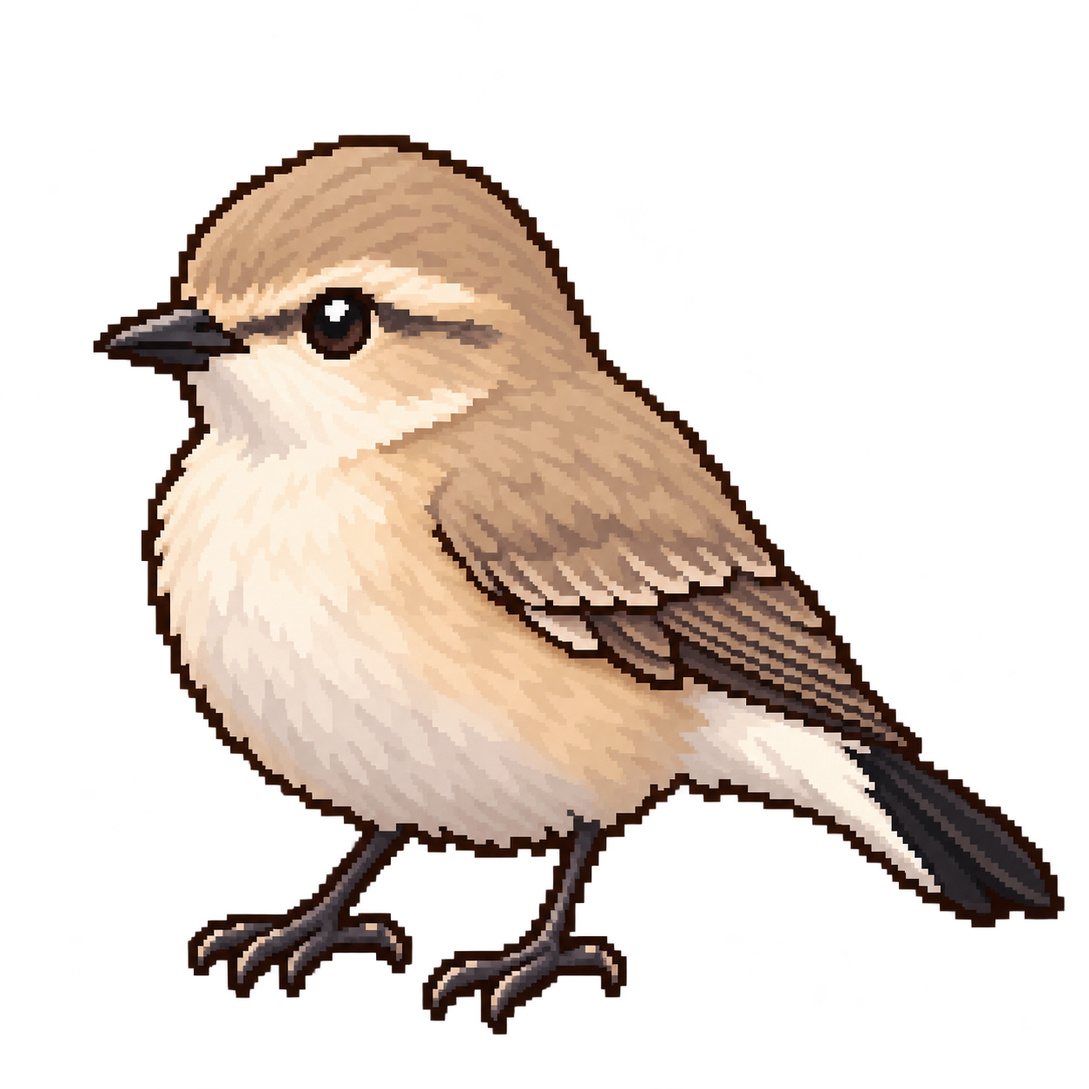
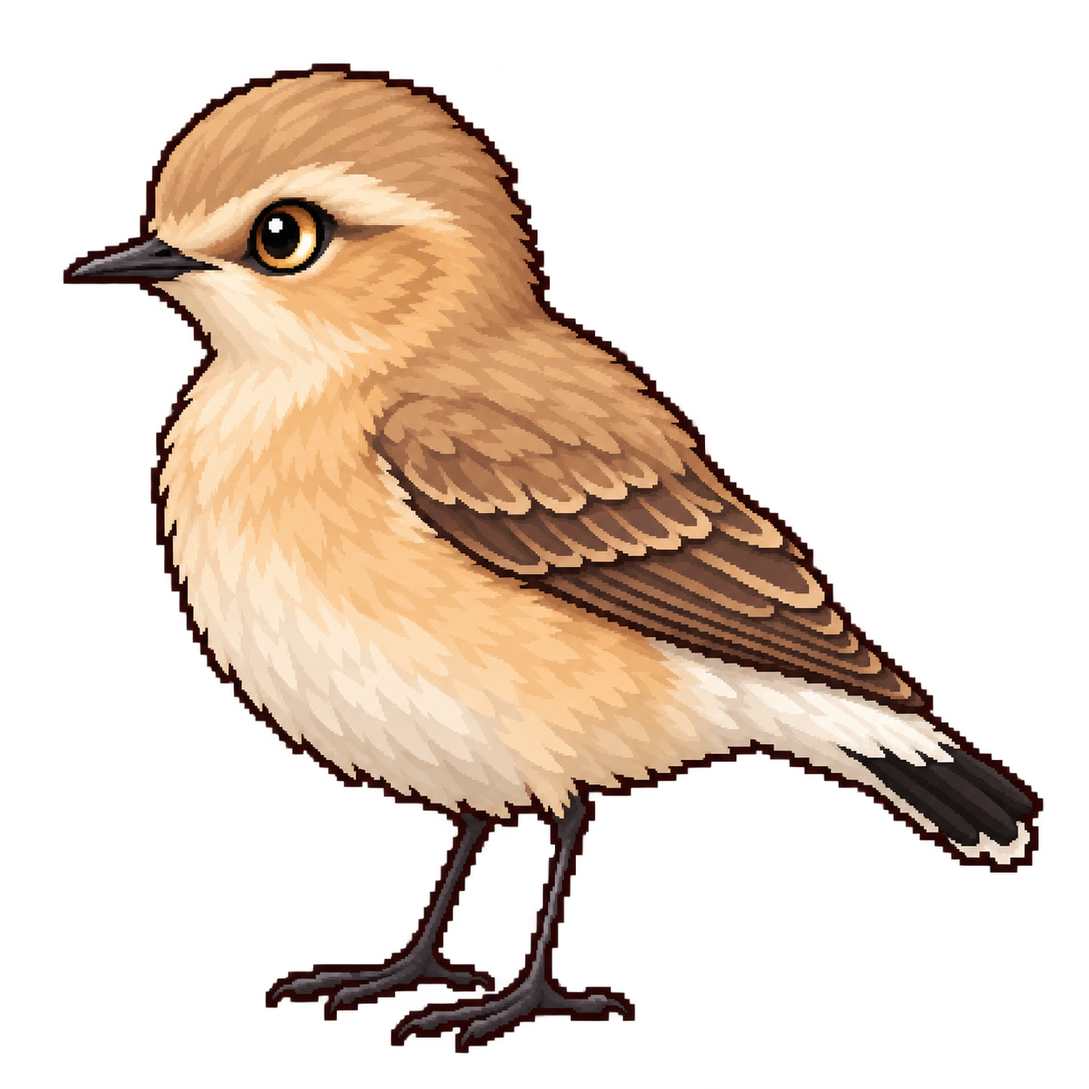
0.8.4.14

diff --git a/dist/game.js b/dist/game.js
@@ -58,7 +58,7 @@ const guests = {
     "red-billed-chough": { id: "red-billed-chough", name: "붉은부리까마귀", englishName: "Red-billed Chough", scientificName: "Pyrrhocorax pyrrhocorax", emoji: "🐦", diet: { primary: ["beetle", "grasshopper"], secondary: ["caterpillar", "lizard"], rare: ["mouse"], never: ["fish", "smallBird"] }, note: "고산 초지와 절벽에서 무척추동물을 찾는 군집성 손님." },
     "himalayan-woodpecker": { id: "himalayan-woodpecker", name: "히말라야오색딱따구리", englishName: "Himalayan Woodpecker", scientificName: "Dendrocopos himalayensis", emoji: "🐦", diet: { primary: ["beetle", "caterpillar"], secondary: ["grasshopper"], rare: [], never: ["frog", "mouse", "fish", "smallBird"] }, note: "고지대 침엽수림에서 딱정벌레와 유충을 찾는 손님." },
     "grey-backed-shrike": { id: "grey-backed-shrike", name: "회색등때까치", englishName: "Grey-backed Shrike", scientificName: "Lanius tephronotus", emoji: "🩶", diet: { primary: ["grasshopper", "beetle", "lizard"], secondary: ["mouse", "caterpillar"], rare: ["smallBird", "frog"], never: ["fish"] }, note: "히말라야와 티베트 고원의 개방지에서 곤충과 소형 척추동물을 사냥하는 손님." },
-    "isabelline-wheatear": { id: "isabelline-wheatear", name: "사막딱새", englishName: "Isabelline Wheatear", scientificName: "Oenanthe isabellina", emoji: "🐦", diet: { primary: ["grasshopper", "beetle"], secondary: ["caterpillar", "lizard"], rare: ["mouse"], never: ["fish", "smallBird"] }, note: "건조 초원과 반사막에서 땅 위 곤충을 쫓는 이동성 손님." },
+    "isabelline-wheatear": { "id": "isabelline-wheatear", "name": "긴다리사막딱새", "englishName": "Isabelline Wheatear", "scientificName": "Oenanthe isabellina", "emoji": "🐦", "diet": { "primary": ["beetle", "grasshopper"], "secondary": ["caterpillar"], "rare": [], "never": ["aquaticInsect", "frog", "lizard", "mouse", "fish", "smallBird", "seed"] }, "note": "중앙아시아의 스텝·반사막에서 번식하고 아프리카와 남아시아에서 겨울을 난다. 모래빛 몸, 긴 검은 다리와 곧게 선 자세가 특징이다. 땅에서 찾는 곤충류를 주문한다." },
     "eurasian-hoopoe": { id: "eurasian-hoopoe", name: "후투티", englishName: "Common Hoopoe", scientificName: "Upupa epops", emoji: "🐦", diet: { primary: ["beetle", "grasshopper"], secondary: ["caterpillar", "lizard"], rare: ["frog"], never: ["fish", "smallBird"] }, note: "땅을 탐색해 큰 곤충과 유충을 먹는 초원·농경지 손님." },
     "european-roller": { id: "european-roller", name: "유럽파랑새", englishName: "European Roller", scientificName: "Coracias garrulus", emoji: "🐦", diet: { primary: ["grasshopper", "beetle", "lizard"], secondary: ["frog", "mouse"], rare: ["smallBird"], never: ["fish"] }, note: "개방지에서 큰 곤충과 소형 척추동물을 노리는 사냥형 손님." },
     "little-owl": { id: "little-owl", name: "금눈쇠올빼미", englishName: "Little Owl", scientificName: "Athene noctua", emoji: "🦉", diet: { primary: ["mouse", "beetle", "grasshopper"], secondary: ["lizard", "smallBird"], rare: ["frog"], never: ["fish"] }, note: "건조 농경지와 초원의 야간 포식자. 설치류와 대형 곤충을 주문한다." },
@@ -103,7 +103,21 @@ const guests = {
     "japanese-accentor": { "id": "japanese-accentor", "name": "쇠바위종다리", "englishName": "Japanese Accentor", "scientificName": "Prunella rubida", "emoji": "🐦", "diet": { "primary": ["beetle", "caterpillar"], "secondary": ["seed"], "rare": [], "never": ["grasshopper", "aquaticInsect", "frog", "lizard", "mouse", "fish", "smallBird"] }, "note": "일본과 인접 동아시아의 산지에 서식한다. 번식기에는 고지대 왜성 소나무·관목, 비번식기에는 낮은 계곡 덤불을 이용한다. 붉은 홍채와 가는 부리가 특징이며 곤충과 씨앗을 주문한다.", "invited": false },
     "japanese-grosbeak": { "id": "japanese-grosbeak", "name": "큰부리밀화부리", "englishName": "Japanese Grosbeak", "scientificName": "Eophona personata", "emoji": "🐦", "diet": { "primary": ["seed"], "secondary": ["beetle", "caterpillar"], "rare": [], "never": ["grasshopper", "aquaticInsect", "frog", "lizard", "mouse", "fish", "smallBird"] }, "note": "동아시아의 산림과 숲 가장자리에서 씨앗과 열매를 먹고 곤충도 이용한다. 굵은 노란 부리, 검은 머리 앞부분, 회갈색 몸과 흰 날개 무늬가 특징이다. 게임에서는 씨앗·견과를 주로 주문한다.", "invited": false },
     "black-grouse": { "id": "black-grouse", "name": "멧닭", "englishName": "Black Grouse", "scientificName": "Lyrurus tetrix", "emoji": "🐦", "diet": { "primary": ["seed"], "secondary": [], "rare": ["beetle", "caterpillar"], "never": ["grasshopper", "aquaticInsect", "frog", "lizard", "mouse", "fish", "smallBird"] }, "note": "유라시아의 숲 경계와 관목·황야에 서식한다. 식물의 잎·눈·씨앗·열매가 주식이고 어린 새는 곤충도 먹는다. 식물성 주문은 씨앗·견과로 단순화했다. 도트는 붉은 눈썹과 리라 모양 꼬리를 가진 수컷이다.", "invited": false },
-    "short-tailed-albatross": { "id": "short-tailed-albatross", "name": "알바트로스", "englishName": "Short-tailed Albatross", "scientificName": "Phoebastria albatrus", "emoji": "🐦", "diet": { "primary": ["fish"], "secondary": [], "rare": [], "never": ["grasshopper", "caterpillar", "beetle", "aquaticInsect", "frog", "lizard", "mouse", "smallBird", "seed"] }, "note": "초대 손님 · 북태평양의 원양성 바닷새로 일본 주변 섬에서 번식한다. 하구 식당을 찾아온 특별 방문객으로 설정했다. 실제로는 오징어·물고기·해양 무척추동물을 먹으며 게임에서는 물고기 꼬치를 주문한다. 성조의 황금빛 머리와 큰 분홍색 부리가 특징이다.", "invited": true }
+    "short-tailed-albatross": { "id": "short-tailed-albatross", "name": "알바트로스", "englishName": "Short-tailed Albatross", "scientificName": "Phoebastria albatrus", "emoji": "🐦", "diet": { "primary": ["fish"], "secondary": [], "rare": [], "never": ["grasshopper", "caterpillar", "beetle", "aquaticInsect", "frog", "lizard", "mouse", "smallBird", "seed"] }, "note": "초대 손님 · 북태평양의 원양성 바닷새로 일본 주변 섬에서 번식한다. 하구 식당을 찾아온 특별 방문객으로 설정했다. 실제로는 오징어·물고기·해양 무척추동물을 먹으며 게임에서는 물고기 꼬치를 주문한다. 성조의 황금빛 머리와 큰 분홍색 부리가 특징이다.", "invited": true },
+    "great-bustard": { "id": "great-bustard", "name": "느시", "englishName": "Great Bustard", "scientificName": "Otis tarda", "emoji": "🐦", "diet": { "primary": ["seed", "grasshopper"], "secondary": ["beetle", "caterpillar"], "rare": [], "never": ["aquaticInsect", "frog", "lizard", "mouse", "fish", "smallBird"] }, "note": "유라시아의 넓은 초원과 농경지에 사는 큰 지상성 조류. 식물의 잎·씨앗과 곤충 등을 먹으며 식물성 먹이는 씨앗·견과로 단순화했다. 도트는 회색 머리와 목, 적갈색 무늬 등, 흰 배를 가진 수컷이다." },
+    "little-heron": { "id": "little-heron", "name": "검은댕기해오라기", "englishName": "Little Heron", "scientificName": "Butorides atricapilla", "emoji": "🐦", "diet": { "primary": ["fish", "aquaticInsect"], "secondary": ["frog"], "rare": [], "never": ["grasshopper", "caterpillar", "beetle", "lizard", "mouse", "smallBird", "seed"] }, "note": "동아시아와 구세계 열대의 하천·연못·습지에서 작은 물고기와 수서무척추동물을 잡는다. 검은 정수리, 회색 목과 배, 녹색 기운의 어두운 날개가 특징이다. 과거 Striated Heron에 포함됐던 아시아 개체군의 현재 학명을 적용했다." },
+    "common-chaffinch": { "id": "common-chaffinch", "name": "푸른머리되새", "englishName": "Common Chaffinch", "scientificName": "Fringilla coelebs", "emoji": "🐦", "diet": { "primary": ["seed"], "secondary": ["beetle", "caterpillar"], "rare": [], "never": ["grasshopper", "aquaticInsect", "frog", "lizard", "mouse", "fish", "smallBird"] }, "note": "유럽과 서아시아의 숲·공원·농경지에서 씨앗을 먹고 번식기에는 곤충도 이용한다. 도트는 청회색 머리, 적갈색 뺨과 가슴, 검고 흰 날개 무늬를 가진 수컷이다." },
+    "grays-grasshopper-warbler": { "id": "grays-grasshopper-warbler", "name": "붉은허리개개비", "englishName": "Gray’s Grasshopper Warbler", "scientificName": "Helopsaltes fasciolatus", "emoji": "🐦", "diet": { "primary": ["caterpillar", "beetle"], "secondary": ["grasshopper"], "rare": [], "never": ["aquaticInsect", "frog", "lizard", "mouse", "fish", "smallBird", "seed"] }, "note": "동북아시아의 숲 가장자리와 빽빽한 덤불에서 번식하고 동남아시아로 이동한다. 등은 무늬가 적은 올리브갈색이고 허리와 꼬리에 적갈색 기운이 있다. 낮은 식생에서 찾는 곤충류를 주문한다." },
+    "masked-booby": { "id": "masked-booby", "name": "푸른얼굴얼가니새", "englishName": "Masked Booby", "scientificName": "Sula dactylatra", "emoji": "🐦", "diet": { "primary": ["fish"], "secondary": [], "rare": [], "never": ["grasshopper", "caterpillar", "beetle", "aquaticInsect", "frog", "lizard", "mouse", "smallBird", "seed"] }, "note": "열대·아열대 바다와 외딴 섬에 서식하며 바다로 급강하해 물고기를 잡는다. 흰 몸, 검은 날개와 꼬리, 부리 기부의 어두운 맨살 마스크가 특징이다. 아프리카 섬 월드의 해안 방문객으로 배정했다." },
+    "little-ringed-plover": { "id": "little-ringed-plover", "name": "꼬마물떼새", "englishName": "Little Ringed Plover", "scientificName": "Thinornis dubius", "emoji": "🐦", "diet": { "primary": ["aquaticInsect", "beetle"], "secondary": ["grasshopper"], "rare": [], "never": ["caterpillar", "frog", "lizard", "mouse", "fish", "smallBird", "seed"] }, "note": "유라시아의 자갈 하천·모래톱·얕은 물가에서 작은 무척추동물을 찾는다. 노란 눈테와 검은 가슴띠가 특징이다. 수서무척추동물은 게임의 수서곤충 재료로 단순화했다." },
+    "crested-serpent-eagle": { "id": "crested-serpent-eagle", "name": "관수리", "englishName": "Crested Serpent-Eagle", "scientificName": "Spilornis cheela", "emoji": "🐦", "diet": { "primary": ["lizard"], "secondary": ["frog", "mouse"], "rare": ["smallBird"], "never": ["grasshopper", "caterpillar", "beetle", "aquaticInsect", "fish", "seed"] }, "note": "남아시아·동남아시아와 인접 동아시아의 산림·산기슭에서 파충류를 주로 사냥한다. 실제 주 먹이인 뱀은 게임에서 도마뱀으로 표현했다. 히말라야 남사면의 낮은 산기슭에 배정했다." },
+    "ashy-minivet": { "id": "ashy-minivet", "name": "할미새사촌", "englishName": "Ashy Minivet", "scientificName": "Pericrocotus divaricatus", "emoji": "🐦", "diet": { "primary": ["caterpillar"], "secondary": ["beetle"], "rare": [], "never": ["grasshopper", "aquaticInsect", "frog", "lizard", "mouse", "fish", "smallBird", "seed"] }, "note": "동북아시아의 산림에서 번식하고 동남아시아로 이동한다. 나무 위에서 곤충을 찾으며 회색 등과 긴 꼬리가 특징이다. 도트는 검은 머리 위와 뺨, 흰 이마·목·배를 가진 수컷이다." },
+    "chestnut-winged-cuckoo": { "id": "chestnut-winged-cuckoo", "name": "밤색날개뻐꾸기", "englishName": "Chestnut-winged Cuckoo", "scientificName": "Clamator coromandus", "emoji": "🐦", "diet": { "primary": ["caterpillar"], "secondary": ["beetle", "grasshopper"], "rare": [], "never": ["aquaticInsect", "frog", "lizard", "mouse", "fish", "smallBird", "seed"] }, "note": "남아시아·동아시아의 산림에서 번식하고 동남아시아로 이동하는 뻐꾸기류. 검은 관우와 긴 꼬리, 밤색 날개, 주황빛 목, 흰 목덜미가 특징이다. 나무 위에서 찾는 곤충류를 주문한다." },
+    "savannah-sparrow": { "id": "savannah-sparrow", "name": "초원멧새", "englishName": "Savannah Sparrow", "scientificName": "Passerculus sandwichensis", "emoji": "🐦", "diet": { "primary": ["seed"], "secondary": ["beetle", "grasshopper", "caterpillar"], "rare": [], "never": ["aquaticInsect", "frog", "lizard", "mouse", "fish", "smallBird"] }, "note": "북미의 초지·목초지·습윤 초원에서 땅 가까이 먹이를 찾는다. 씨앗과 곤충을 먹으며 노란 눈앞·눈썹 부분과 가슴의 짙은 줄무늬가 특징이다. 아프리카 사바나의 새가 아닌 북미 손님이다." },
+    "chinese-pond-heron": { "id": "chinese-pond-heron", "name": "흰날개해오라기", "englishName": "Chinese Pond-Heron", "scientificName": "Ardeola bacchus", "emoji": "🐦", "diet": { "primary": ["fish", "aquaticInsect"], "secondary": ["frog"], "rare": [], "never": ["grasshopper", "caterpillar", "beetle", "lizard", "mouse", "smallBird", "seed"] }, "note": "동아시아와 동남아시아의 논·연못·습지에서 물고기와 수서무척추동물을 잡는다. 도트는 적갈색 머리·목, 짙은 등과 흰 날개를 가진 번식깃 성조이며 비번식깃은 갈색 줄무늬가 많다." },
+    "thick-billed-warbler": { "id": "thick-billed-warbler", "name": "큰부리개개비", "englishName": "Thick-billed Warbler", "scientificName": "Arundinax aedon", "emoji": "🐦", "diet": { "primary": ["caterpillar", "beetle"], "secondary": ["grasshopper"], "rare": [], "never": ["aquaticInsect", "frog", "lizard", "mouse", "fish", "smallBird", "seed"] }, "note": "동북아시아의 덤불과 키 큰 풀밭에서 번식하고 남아시아·동남아시아에서 겨울을 난다. 굵은 부리, 눈썹이 거의 없는 둥근 얼굴과 적갈색 기운의 꼬리가 특징이다. 곤충류를 주문한다." },
+    "curlew-sandpiper": { "id": "curlew-sandpiper", "name": "붉은갯도요", "englishName": "Curlew Sandpiper", "scientificName": "Calidris ferruginea", "emoji": "🐦", "diet": { "primary": ["aquaticInsect"], "secondary": ["beetle"], "rare": [], "never": ["grasshopper", "caterpillar", "frog", "lizard", "mouse", "fish", "smallBird", "seed"] }, "note": "러시아 툰드라에서 번식하고 아프리카·남아시아·호주 등의 해안 습지에서 겨울을 난다. 이동기의 하구·갯벌 손님으로 배정했다. 번식깃은 붉고 비번식깃은 회갈색이다. 갯벌 무척추동물은 수서곤충으로 단순화했다." },
+    "ring-necked-duck": { "id": "ring-necked-duck", "name": "북미댕기흰죽지", "englishName": "Ring-necked Duck", "scientificName": "Aythya collaris", "emoji": "🐦", "diet": { "primary": ["seed", "aquaticInsect"], "secondary": [], "rare": [], "never": ["grasshopper", "caterpillar", "beetle", "frog", "lizard", "mouse", "fish", "smallBird"] }, "note": "북미의 식생이 있는 연못·습지에서 잠수해 수생식물의 씨앗과 수서무척추동물을 먹는다. 식물성 먹이는 씨앗·견과로 단순화했다. 수컷의 뾰족하게 솟은 머리, 회색 옆구리와 부리의 흰 띠가 특징이다." }
 };
 const stages = {
     1: { id: 1, world: 1, icon: "🌾", name: "처음 연 꼬치집", habitat: "밭 가장자리", duration: 100, maxOrders: 3, spawnMin: 3800, spawnMax: 5800, maxRecipeLength: 3, specialChance: 0, feedingTimeAt: null, feedingDuration: 0, starScores: [650, 1100], guestPool: ["great-tit", "marsh-tit", "daurian-redstart"], foodAvailability: { caterpillar: 1, beetle: .9, grasshopper: .7 } },
@@ -225,8 +239,8 @@ for (let id = 51; id <= 100; id++) {
     config.subGoal = finale ? { kind: "perfect", target: 14, label: "PERFECT 14회" } : index % 3 === 0 ? { kind: "served", target: 12 + Math.floor(index / 2), label: `손님 ${12 + Math.floor(index / 2)}명 서빙` } : index % 3 === 1 ? { kind: "combo", target: 9 + index, label: `Best Combo ×${9 + index}` } : { kind: "special", target: 3 + Math.floor(index / 3), label: `SPECIAL ${3 + Math.floor(index / 3)}회 서빙` };
     stages[id] = config;
 }
-// 0.8.4.12: habitat-based guest additions; existing stage timings and goals stay intact.
-const guestStageAdditions = { "slaty-backed-gull": [18, 20], "little-grebe": [7, 11, 16, 17, 20], "beijing-babbler": [6, 8, 14], "yellow-bittern": [3, 7, 14, 16, 20], "palm-cockatoo": [91, 94, 99, 100], "japanese-accentor": [24, 25, 26, 30], "japanese-grosbeak": [4, 22, 23, 30], "black-grouse": [55, 59, 60], "short-tailed-albatross": [20] };
+// 0.8.4.14: habitat-based guest additions; existing stage timings and goals stay intact.
+const guestStageAdditions = { "slaty-backed-gull": [18, 20], "little-grebe": [7, 11, 16, 17, 20], "beijing-babbler": [6, 8, 14], "yellow-bittern": [3, 7, 14, 16, 20], "palm-cockatoo": [91, 94, 99, 100], "japanese-accentor": [24, 25, 26, 30], "japanese-grosbeak": [4, 22, 23, 30], "black-grouse": [55, 59, 60], "short-tailed-albatross": [20], "great-bustard": [41, 42, 45, 50, 57, 60], "little-heron": [3, 7, 11, 12, 16, 73, 95], "common-chaffinch": [51, 53, 54, 55, 58, 60], "grays-grasshopper-warbler": [8, 14, 22, 26, 27, 30], "masked-booby": [98, 100], "little-ringed-plover": [11, 12, 13, 15, 18, 20], "crested-serpent-eagle": [31], "isabelline-wheatear": [41, 44, 45, 46, 47, 48, 50], "ashy-minivet": [4, 10, 22, 23, 27, 30], "chestnut-winged-cuckoo": [22, 23, 27, 30, 31, 34], "savannah-sparrow": [61, 64, 65, 66, 68, 70], "chinese-pond-heron": [2, 3, 7, 9, 11, 16, 20], "thick-billed-warbler": [6, 8, 14, 15, 26], "curlew-sandpiper": [18, 20, 56, 60, 98, 100], "ring-necked-duck": [65, 70] };
 for (const guestId of Object.keys(guestStageAdditions)) {
     for (const stageId of guestStageAdditions[guestId] || []) {
         const c = stages[stageId];
@@ -242,6 +256,9 @@ for (const guestId of Object.keys(guestStageAdditions)) {
         }
     }
 }
+// 0.8.4.14: aquatic food for coastal migrants and the North American wetland finale.
+for (const id of [56, 60, 70])
+    stages[id].foodAvailability.aquaticInsect = .75;
 // 0.6.5.11 World Identity pass: every stage gets a readable secondary objective.
 // Existing hand-authored goals remain authoritative; only missing goals are filled here.
 for (let i = 1; i <= 50; i++) {
@@ -457,7 +474,7 @@ function guestVisual(g) {
         apply({ body: "#2f7e87", belly: "#c56e48", wing: "#314f76", head: "#2d6777", cheek: "#4fa6a7", mask: "#1c3348" });
     return base;
 }
-const pixelGuestAssets = { "great-tit": "japanese-tit", "marsh-tit": "marsh-tit", "daurian-redstart": "daurian-redstart", "eastern-cattle-egret": "eastern-cattle-egret", "white-wagtail": "white-wagtail", "grey-wagtail": "grey-wagtail", "common-kingfisher": "common-kingfisher", "great-spotted-woodpecker": "great-spotted-woodpecker", "eurasian-nuthatch": "eurasian-nuthatch", "brown-eared-bulbul": "brown-eared-bulbul", "oriental-magpie": "oriental-magpie", "grey-heron": "grey-heron", "eurasian-sparrowhawk": "eurasian-sparrowhawk", "oriental-scops-owl": "oriental-scops-owl", "little-egret": "little-egret", "black-crowned-night-heron": "black-crowned-night-heron", "common-sandpiper": "common-sandpiper", "oriental-reed-warbler": "oriental-reed-warbler", "barn-swallow": "barn-swallow", "grey-headed-lapwing": "grey-headed-lapwing", "common-kestrel": "common-kestrel", "ruddy-kingfisher": "ruddy-kingfisher", "coal-tit": "coal-tit", "varied-tit": "varied-tit", "eurasian-jay": "eurasian-jay", "pale-thrush": "pale-thrush", "whites-thrush": "whites-thrush", "japanese-pygmy-woodpecker": "japanese-pygmy-woodpecker", "eurasian-treecreeper": "eurasian-treecreeper", "grey-nightjar": "grey-nightjar", "brown-hawk-owl": "brown-hawk-owl", "himalayan-bulbul": "himalayan-bulbul", "blue-whistling-thrush": "blue-whistling-thrush", "white-capped-redstart": "white-capped-redstart", "plumbeous-water-redstart": "plumbeous-water-redstart", "rufous-sibia": "rufous-sibia", "green-backed-tit": "green-backed-tit", "red-billed-chough": "red-billed-chough", "himalayan-woodpecker": "himalayan-woodpecker", "grey-backed-shrike": "grey-backed-shrike", "isabelline-wheatear": "isabelline-wheatear", "eurasian-hoopoe": "eurasian-hoopoe", "european-roller": "european-roller", "little-owl": "little-owl", "steppe-eagle": "steppe-eagle", "red-tailed-shrike": "red-tailed-shrike", "isabelline-shrike": "isabelline-shrike", "european-robin": "european-robin", "common-blackbird": "common-blackbird", "european-bee-eater": "european-bee-eater", "red-backed-shrike": "red-backed-shrike", "lesser-grey-shrike": "lesser-grey-shrike", "european-nightjar": "european-nightjar", "loggerhead-shrike": "loggerhead-shrike", "american-kestrel": "american-kestrel", "eastern-bluebird": "eastern-bluebird", "american-robin": "american-robin", "belted-kingfisher": "belted-kingfisher", "northern-mockingbird": "northern-mockingbird", "lilac-breasted-roller": "lilac-breasted-roller", "african-grey-hornbill": "african-grey-hornbill", "african-pygmy-kingfisher": "african-pygmy-kingfisher", "superb-starling": "superb-starling", "southern-fiscal": "southern-fiscal", "cape-wagtail": "cape-wagtail", "cape-robin-chat": "cape-robin-chat", "northern-fiscal": "northern-fiscal", "mackinnons-shrike": "mackinnons-shrike", "fiscal-flycatcher": "fiscal-flycatcher", "cape-crow": "cape-crow", "karoo-scrub-robin": "karoo-scrub-robin", "sao-tome-fiscal": "sao-tome-fiscal", "sao-tome-thrush": "sao-tome-thrush", "sao-tome-oriole": "sao-tome-oriole", "madagascar-kingfisher": "madagascar-kingfisher", "madagascar-kestrel": "madagascar-kestrel", "madagascar-magpie-robin": "madagascar-magpie-robin", "slaty-backed-gull": "slaty-backed-gull", "little-grebe": "little-grebe", "beijing-babbler": "beijing-babbler", "yellow-bittern": "yellow-bittern", "palm-cockatoo": "palm-cockatoo", "japanese-accentor": "japanese-accentor", "japanese-grosbeak": "japanese-grosbeak", "black-grouse": "black-grouse", "short-tailed-albatross": "short-tailed-albatross" };
+const pixelGuestAssets = { "great-tit": "japanese-tit", "marsh-tit": "marsh-tit", "daurian-redstart": "daurian-redstart", "eastern-cattle-egret": "eastern-cattle-egret", "white-wagtail": "white-wagtail", "grey-wagtail": "grey-wagtail", "common-kingfisher": "common-kingfisher", "great-spotted-woodpecker": "great-spotted-woodpecker", "eurasian-nuthatch": "eurasian-nuthatch", "brown-eared-bulbul": "brown-eared-bulbul", "oriental-magpie": "oriental-magpie", "grey-heron": "grey-heron", "eurasian-sparrowhawk": "eurasian-sparrowhawk", "oriental-scops-owl": "oriental-scops-owl", "little-egret": "little-egret", "black-crowned-night-heron": "black-crowned-night-heron", "common-sandpiper": "common-sandpiper", "oriental-reed-warbler": "oriental-reed-warbler", "barn-swallow": "barn-swallow", "grey-headed-lapwing": "grey-headed-lapwing", "common-kestrel": "common-kestrel", "ruddy-kingfisher": "ruddy-kingfisher", "coal-tit": "coal-tit", "varied-tit": "varied-tit", "eurasian-jay": "eurasian-jay", "pale-thrush": "pale-thrush", "whites-thrush": "whites-thrush", "japanese-pygmy-woodpecker": "japanese-pygmy-woodpecker", "eurasian-treecreeper": "eurasian-treecreeper", "grey-nightjar": "grey-nightjar", "brown-hawk-owl": "brown-hawk-owl", "himalayan-bulbul": "himalayan-bulbul", "blue-whistling-thrush": "blue-whistling-thrush", "white-capped-redstart": "white-capped-redstart", "plumbeous-water-redstart": "plumbeous-water-redstart", "rufous-sibia": "rufous-sibia", "green-backed-tit": "green-backed-tit", "red-billed-chough": "red-billed-chough", "himalayan-woodpecker": "himalayan-woodpecker", "grey-backed-shrike": "grey-backed-shrike", "isabelline-wheatear": "isabelline-wheatear", "eurasian-hoopoe": "eurasian-hoopoe", "european-roller": "european-roller", "little-owl": "little-owl", "steppe-eagle": "steppe-eagle", "red-tailed-shrike": "red-tailed-shrike", "isabelline-shrike": "isabelline-shrike", "european-robin": "european-robin", "common-blackbird": "common-blackbird", "european-bee-eater": "european-bee-eater", "red-backed-shrike": "red-backed-shrike", "lesser-grey-shrike": "lesser-grey-shrike", "european-nightjar": "european-nightjar", "loggerhead-shrike": "loggerhead-shrike", "american-kestrel": "american-kestrel", "eastern-bluebird": "eastern-bluebird", "american-robin": "american-robin", "belted-kingfisher": "belted-kingfisher", "northern-mockingbird": "northern-mockingbird", "lilac-breasted-roller": "lilac-breasted-roller", "african-grey-hornbill": "african-grey-hornbill", "african-pygmy-kingfisher": "african-pygmy-kingfisher", "superb-starling": "superb-starling", "southern-fiscal": "southern-fiscal", "cape-wagtail": "cape-wagtail", "cape-robin-chat": "cape-robin-chat", "northern-fiscal": "northern-fiscal", "mackinnons-shrike": "mackinnons-shrike", "fiscal-flycatcher": "fiscal-flycatcher", "cape-crow": "cape-crow", "karoo-scrub-robin": "karoo-scrub-robin", "sao-tome-fiscal": "sao-tome-fiscal", "sao-tome-thrush": "sao-tome-thrush", "sao-tome-oriole": "sao-tome-oriole", "madagascar-kingfisher": "madagascar-kingfisher", "madagascar-kestrel": "madagascar-kestrel", "madagascar-magpie-robin": "madagascar-magpie-robin", "slaty-backed-gull": "slaty-backed-gull", "little-grebe": "little-grebe", "beijing-babbler": "beijing-babbler", "yellow-bittern": "yellow-bittern", "palm-cockatoo": "palm-cockatoo", "japanese-accentor": "japanese-accentor", "japanese-grosbeak": "japanese-grosbeak", "black-grouse": "black-grouse", "short-tailed-albatross": "short-tailed-albatross", "great-bustard": "great-bustard", "little-heron": "little-heron", "common-chaffinch": "common-chaffinch", "grays-grasshopper-warbler": "grays-grasshopper-warbler", "masked-booby": "masked-booby", "little-ringed-plover": "little-ringed-plover", "crested-serpent-eagle": "crested-serpent-eagle", "ashy-minivet": "ashy-minivet", "chestnut-winged-cuckoo": "chestnut-winged-cuckoo", "savannah-sparrow": "savannah-sparrow", "chinese-pond-heron": "chinese-pond-heron", "thick-billed-warbler": "thick-billed-warbler", "curlew-sandpiper": "curlew-sandpiper", "ring-necked-duck": "ring-necked-duck" };
 function guestPortraitSvg(g, compact = false) {
     const sprite = pixelGuestAssets[g.id];
     if (sprite)

diff --git a/sw.js b/sw.js
@@ -1,5 +1,5 @@
-const CACHE="shrike-tycoon-0.8.4.13-birds86";
-const ASSETS=["./", "./styles.css", "./manifest.webmanifest", "./LICENSES.txt", "./index.html", "./dist/game.js", "./assets/icon-192.png", "./assets/cover.png", "./assets/icon-512.png", "./assets/fonts/NotoEmoji.ttf", "./assets/fonts/Jua-Regular.ttf", "./assets/pixel/southern-fiscal.png", "./assets/pixel/eastern-cattle-egret.png", "./assets/pixel/grey-heron.png", "./assets/pixel/common-blackbird.png", "./assets/pixel/cape-wagtail.png", "./assets/pixel/grey-wagtail.png", "./assets/pixel/world3.png", "./assets/pixel/european-bee-eater.png", "./assets/pixel/red-billed-chough.png", "./assets/pixel/sao-tome-fiscal.png", "./assets/pixel/cape-crow.png", "./assets/pixel/blue-whistling-thrush.png", "./assets/pixel/eastern-bluebird.png", "./assets/pixel/chef-bull-headed.png", "./assets/pixel/world5.png", "./assets/pixel/american-robin.png", "./assets/pixel/slaty-backed-gull.png", "./assets/pixel/common-kingfisher.png", "./assets/pixel/northern-mockingbird.png", "./assets/pixel/european-nightjar.png", "./assets/pixel/chef-isabelline.png", "./assets/pixel/red-backed-shrike.png", "./assets/pixel/belted-kingfisher.png", "./assets/pixel/daurian-redstart.png", "./assets/pixel/world1.png", "./assets/pixel/himalayan-woodpecker.png", "./assets/pixel/short-tailed-albatross.png", "./assets/pixel/brown-hawk-owl.png", "./assets/pixel/northern-fiscal.png", "./assets/pixel/brown-eared-bulbul.png", "./assets/pixel/african-grey-hornbill.png", "./assets/pixel/loggerhead-shrike.png", "./assets/pixel/madagascar-kestrel.png", "./assets/pixel/little-grebe.png", "./assets/pixel/chef-northern.png", "./assets/pixel/japanese-tit.png", "./assets/pixel/beijing-babbler.png", "./assets/pixel/chef-great-grey.png", "./assets/pixel/oriental-scops-owl.png", "./assets/pixel/green-backed-tit.png", "./assets/pixel/chef-chinese-grey.png", "./assets/pixel/great-spotted-woodpecker.png", "./assets/pixel/japanese-accentor.png", "./assets/pixel/lilac-breasted-roller.png", "./assets/pixel/himalayan-bulbul.png", "./assets/pixel/eurasian-hoopoe.png", "./assets/pixel/superb-starling.png", "./assets/pixel/sao-tome-thrush.png", "./assets/pixel/steppe-eagle.png", "./assets/pixel/common-kestrel.png", "./assets/pixel/european-robin.png", "./assets/pixel/madagascar-kingfisher.png", "./assets/pixel/american-kestrel.png", "./assets/pixel/karoo-scrub-robin.png", "./assets/pixel/chef-brown.png", "./assets/pixel/isabelline-shrike.png", "./assets/pixel/mackinnons-shrike.png", "./assets/pixel/japanese-grosbeak.png", "./assets/pixel/red-tailed-shrike.png", "./assets/pixel/black-crowned-night-heron.png", "./assets/pixel/eurasian-treecreeper.png", "./assets/pixel/marsh-tit.png", "./assets/pixel/grey-backed-shrike.png", "./assets/pixel/coal-tit.png", "./assets/pixel/oriental-magpie.png", "./assets/pixel/chef-tiger.png", "./assets/pixel/grey-headed-lapwing.png", "./assets/pixel/ruddy-kingfisher.png", "./assets/pixel/isabelline-wheatear.png", "./assets/pixel/palm-cockatoo.png", "./assets/pixel/sao-tome-oriole.png", "./assets/pixel/white-capped-redstart.png", "./assets/pixel/rufous-sibia.png", "./assets/pixel/barn-swallow.png", "./assets/pixel/eurasian-jay.png", "./assets/pixel/world8.png", "./assets/pixel/european-roller.png", "./assets/pixel/madagascar-magpie-robin.png", "./assets/pixel/world7.png", "./assets/pixel/lesser-grey-shrike.png", "./assets/pixel/world10.png", "./assets/pixel/world2.png", "./assets/pixel/black-grouse.png", "./assets/pixel/eurasian-sparrowhawk.png", "./assets/pixel/little-egret.png", "./assets/pixel/yellow-bittern.png", "./assets/pixel/world4.png", "./assets/pixel/world6.png", "./assets/pixel/little-owl.png", "./assets/pixel/common-sandpiper.png", "./assets/pixel/oriental-reed-warbler.png", "./assets/pixel/pale-thrush.png", "./assets/pixel/white-wagtail.png", "./assets/pixel/japanese-pygmy-woodpecker.png", "./assets/pixel/cape-robin-chat.png", "./assets/pixel/fiscal-flycatcher.png", "./assets/pixel/world9.png", "./assets/pixel/plumbeous-water-redstart.png", "./assets/pixel/chef-red-backed.png", "./assets/pixel/african-pygmy-kingfisher.png", "./assets/pixel/chef-red-tailed.png", "./assets/pixel/grey-nightjar.png", "./assets/pixel/eurasian-nuthatch.png", "./assets/pixel/chef-long-tailed.png", "./assets/pixel/chef-grey-backed.png", "./assets/pixel/varied-tit.png", "./assets/pixel/whites-thrush.png", "./assets/audio/mosu_kushiyaki_shop.mp3"];
+const CACHE="shrike-tycoon-0.8.4.14-birds100";
+const ASSETS=["./", "./styles.css", "./manifest.webmanifest", "./LICENSES.txt", "./index.html", "./dist/game.js", "./assets/icon-192.png", "./assets/cover.png", "./assets/icon-512.png", "./assets/fonts/NotoEmoji.ttf", "./assets/fonts/Jua-Regular.ttf", "./assets/pixel/southern-fiscal.png", "./assets/pixel/eastern-cattle-egret.png", "./assets/pixel/grey-heron.png", "./assets/pixel/common-blackbird.png", "./assets/pixel/cape-wagtail.png", "./assets/pixel/great-bustard.png", "./assets/pixel/grey-wagtail.png", "./assets/pixel/chinese-pond-heron.png", "./assets/pixel/world3.png", "./assets/pixel/european-bee-eater.png", "./assets/pixel/ashy-minivet.png", "./assets/pixel/red-billed-chough.png", "./assets/pixel/sao-tome-fiscal.png", "./assets/pixel/cape-crow.png", "./assets/pixel/blue-whistling-thrush.png", "./assets/pixel/eastern-bluebird.png", "./assets/pixel/chef-bull-headed.png", "./assets/pixel/ring-necked-duck.png", "./assets/pixel/world5.png", "./assets/pixel/american-robin.png", "./assets/pixel/slaty-backed-gull.png", "./assets/pixel/common-kingfisher.png", "./assets/pixel/northern-mockingbird.png", "./assets/pixel/european-nightjar.png", "./assets/pixel/chef-isabelline.png", "./assets/pixel/red-backed-shrike.png", "./assets/pixel/belted-kingfisher.png", "./assets/pixel/common-chaffinch.png", "./assets/pixel/daurian-redstart.png", "./assets/pixel/world1.png", "./assets/pixel/himalayan-woodpecker.png", "./assets/pixel/short-tailed-albatross.png", "./assets/pixel/crested-serpent-eagle.png", "./assets/pixel/brown-hawk-owl.png", "./assets/pixel/curlew-sandpiper.png", "./assets/pixel/northern-fiscal.png", "./assets/pixel/brown-eared-bulbul.png", "./assets/pixel/african-grey-hornbill.png", "./assets/pixel/loggerhead-shrike.png", "./assets/pixel/madagascar-kestrel.png", "./assets/pixel/little-heron.png", "./assets/pixel/little-grebe.png", "./assets/pixel/chef-northern.png", "./assets/pixel/japanese-tit.png", "./assets/pixel/beijing-babbler.png", "./assets/pixel/savannah-sparrow.png", "./assets/pixel/thick-billed-warbler.png", "./assets/pixel/chestnut-winged-cuckoo.png", "./assets/pixel/chef-great-grey.png", "./assets/pixel/oriental-scops-owl.png", "./assets/pixel/green-backed-tit.png", "./assets/pixel/chef-chinese-grey.png", "./assets/pixel/great-spotted-woodpecker.png", "./assets/pixel/japanese-accentor.png", "./assets/pixel/lilac-breasted-roller.png", "./assets/pixel/himalayan-bulbul.png", "./assets/pixel/eurasian-hoopoe.png", "./assets/pixel/little-ringed-plover.png", "./assets/pixel/superb-starling.png", "./assets/pixel/sao-tome-thrush.png", "./assets/pixel/steppe-eagle.png", "./assets/pixel/common-kestrel.png", "./assets/pixel/european-robin.png", "./assets/pixel/madagascar-kingfisher.png", "./assets/pixel/american-kestrel.png", "./assets/pixel/karoo-scrub-robin.png", "./assets/pixel/chef-brown.png", "./assets/pixel/isabelline-shrike.png", "./assets/pixel/mackinnons-shrike.png", "./assets/pixel/japanese-grosbeak.png", "./assets/pixel/red-tailed-shrike.png", "./assets/pixel/black-crowned-night-heron.png", "./assets/pixel/eurasian-treecreeper.png", "./assets/pixel/marsh-tit.png", "./assets/pixel/grey-backed-shrike.png", "./assets/pixel/coal-tit.png", "./assets/pixel/oriental-magpie.png", "./assets/pixel/chef-tiger.png", "./assets/pixel/grey-headed-lapwing.png", "./assets/pixel/ruddy-kingfisher.png", "./assets/pixel/isabelline-wheatear.png", "./assets/pixel/palm-cockatoo.png", "./assets/pixel/sao-tome-oriole.png", "./assets/pixel/white-capped-redstart.png", "./assets/pixel/rufous-sibia.png", "./assets/pixel/barn-swallow.png", "./assets/pixel/eurasian-jay.png", "./assets/pixel/masked-booby.png", "./assets/pixel/world8.png", "./assets/pixel/european-roller.png", "./assets/pixel/madagascar-magpie-robin.png", "./assets/pixel/world7.png", "./assets/pixel/lesser-grey-shrike.png", "./assets/pixel/world10.png", "./assets/pixel/world2.png", "./assets/pixel/black-grouse.png", "./assets/pixel/eurasian-sparrowhawk.png", "./assets/pixel/little-egret.png", "./assets/pixel/yellow-bittern.png", "./assets/pixel/world4.png", "./assets/pixel/world6.png", "./assets/pixel/little-owl.png", "./assets/pixel/common-sandpiper.png", "./assets/pixel/oriental-reed-warbler.png", "./assets/pixel/pale-thrush.png", "./assets/pixel/white-wagtail.png", "./assets/pixel/japanese-pygmy-woodpecker.png", "./assets/pixel/cape-robin-chat.png", "./assets/pixel/fiscal-flycatcher.png", "./assets/pixel/world9.png", "./assets/pixel/plumbeous-water-redstart.png", "./assets/pixel/chef-red-backed.png", "./assets/pixel/african-pygmy-kingfisher.png", "./assets/pixel/chef-red-tailed.png", "./assets/pixel/grey-nightjar.png", "./assets/pixel/eurasian-nuthatch.png", "./assets/pixel/chef-long-tailed.png", "./assets/pixel/chef-grey-backed.png", "./assets/pixel/varied-tit.png", "./assets/pixel/grays-grasshopper-warbler.png", "./assets/pixel/whites-thrush.png", "./assets/audio/mosu_kushiyaki_shop.mp3"];
 self.addEventListener('install',e=>e.waitUntil(caches.open(CACHE).then(c=>c.addAll(ASSETS)).then(()=>self.skipWaiting())));
 self.addEventListener('activate',e=>e.waitUntil(caches.keys().then(keys=>Promise.all(keys.filter(k=>k!==CACHE&&k.startsWith('shrike-tycoon-')).map(k=>caches.delete(k)))).then(()=>self.clients.claim())));
 self.addEventListener('fetch',e=>{if(e.request.method!=='GET')return;e.respondWith(caches.match(e.request).then(hit=>hit||fetch(e.request).then(res=>{const copy=res.clone();caches.open(CACHE).then(c=>c.put(e.request,copy));return res}).catch(()=>caches.match('./index.html'))))});

diff --git a/index.html b/index.html
@@ -6,7 +6,7 @@
 <meta name="apple-mobile-web-app-status-bar-style" content="black-translucent">
 <meta name="apple-mobile-web-app-title" content="때까치 타이쿤">
 <link rel="manifest" href="manifest.webmanifest">
-<link rel="apple-touch-icon" href="assets/icon-192.png"><title>때까치 타이쿤 0.8.4.13 · 숲속 식당</title><link rel="stylesheet" href="styles.css"></head><body><audio id="bgmAudio" src="assets/audio/mosu_kushiyaki_shop.mp3" preload="metadata" loop></audio>
+<link rel="apple-touch-icon" href="assets/icon-192.png"><title>때까치 타이쿤 0.8.4.14 · 숲속 식당</title><link rel="stylesheet" href="styles.css"></head><body><audio id="bgmAudio" src="assets/audio/mosu_kushiyaki_shop.mp3" preload="metadata" loop></audio>
 <div id="orientationGate" class="orientation-gate" aria-modal="true" role="dialog" aria-live="assertive" aria-labelledby="orientationGateTitle">
   <div class="orientation-gate-card">
     <div id="orientationGateIcon" class="orientation-gate-icon" aria-hidden="true">▯</div>
@@ -115,5 +115,5 @@
 </dialog>
 
 
-<dialog id="helpDialog" class="help-dialog"><h2>0.8.4.13 · 게임 방법</h2><ol><li>Stage를 고르면 아래에 해당 서식지의 주요 먹이와 예상 손님이 표시됩니다.</li><li>주문이 들어오면 새 손님과 연결된 말풍선에 필요한 꼬치가 표시됩니다.</li><li>선택한 때까치 Chef가 조립대에 직접 등장하며 Idle · 조립 · 굽기 · PERFECT · BURNING 상태가 시각적으로 바뀝니다.</li><li>9종 먹이와 꼬치는 전용 Food Art로 렌더링되며, 주문 카드·조립대·화구가 같은 비주얼 시스템을 공유합니다.</li><li>World 1–10은 서로 다른 색온도·지형 실루엣·환경 오브젝트를 사용하며 플레이 중 배경 블러를 최소화합니다.</li><li>Bird Book과 ShrikeDex에는 수집 진행률, 발견/해금 필터, World 필터, 상세 패널이 제공됩니다.</li><li>모바일에서는 앱 시작·월드 복귀 시 세로모드, Stage 플레이 시작 시 가로모드를 권장하는 전체화면 안내가 표시됩니다.</li><li>0.7.6부터 재료 선택·자동 매칭·화구 READY·PERFECT/OVERCOOKED·손님 퇴장·BURNING에 Animation &amp; Juice 피드백이 추가됩니다.</li><li>모바일 가로모드에서 주문이 5개 이상이면 Compact Order Mode가 자동 적용되어 이름·레시피·타이머가 겹치지 않도록 표시됩니다.</li><li>모바일에서 재료가 4종 이상이면 재료 이미지와 이름이 자동 축소되고, 7종 이상이면 Ultra Dense Food Mode로 5열·내부 스크롤 fallback을 사용해 모든 재료와 조리시간을 보이게 합니다. 화구 불꽃도 작은 화면에 맞게 축소됩니다.</li><li>주문 선택 없이 재료를 같은 순서로 꽂아도 됩니다. 완성 시 가장 오래 기다린 일치 주문에 자동 매칭됩니다.</li><li>원하는 주문을 클릭하면 우선 매칭 대상으로 지정할 수 있습니다. 완성한 꼬치를 빈 화구에 넣고 READY에서 다시 클릭합니다.</li><li>모든 손님의 기본 제한시간은 60초입니다.</li><li>Perfect와 Combo로 Burning을 충전합니다. 게이지가 100%에 도달하면 자동으로 15초간 발동합니다. 버닝 중 다시 충전되면 종료 후 자동 발동합니다.</li><li>새 손님이 처음 방문하면 Bird Book에 등록됩니다.</li><li>World 2의 비는 조리를 늦추고, 바람은 손님 유입을 빠르게 하며, 햇빛은 조리를 가속합니다.</li><li>물때까치는 주문 시간을 제어하고, 긴꼬리때까치는 추가 화구를 운용합니다.</li><li>World 3에서는 낮 → 해질녘 → 밤 전환에 따라 손님 풀이 바뀌고 야간 곤충 주문 가중치가 높아집니다.</li><li>각 World 3 Stage에는 🎯 서브 목표가 있으며 달성 시 추가 XP를 얻습니다.</li><li>PERFECT를 3회 연속 달성할 때마다 추가 점수와 Burning 게이지 보너스를 받습니다.</li><li>World 4에서는 고도 단계에 따라 조리가 느려지고, ❄ 한기 발생 시 조리속도가 추가로 감소합니다.</li><li>회색등때까치는 고도 페널티를 절반으로 줄이며 Burning 동안 고도·한기 페널티를 무효화합니다.</li><li>World 5에서는 🪽 Migration Wave가 여러 차례 발생하며, Wave 중 손님 유입 속도가 크게 증가합니다.</li><li>사막때까치는 Migration Wave 중 점수 +20%, 붉은꼬리때까치는 Rush 중 점수 보너스와 Burning 조리속도 +25%를 얻습니다.</li><li>World 6은 ⭐ Favourite Dish, World 7은 ❄ Fire Warmth, World 8은 🐜 Insect Emergence가 핵심입니다.</li><li>World 9에서는 화구 사용량에 따라 Heat가 오르며, 조리는 빨라지지만 READY 유지시간이 짧아집니다.</li><li>World 10은 Favourite·시간대·날씨·Rush가 결합되는 최종 월드입니다.</li></ol><p class="hint">주문 확률 = 손님 식성 × Stage 먹이 가용성. 기존 0.3.3 localStorage 진행도는 자동으로 이어집니다.</p><button id="closeHelpButton" class="primary-button wide">확인</button></dialog>
+<dialog id="helpDialog" class="help-dialog"><h2>0.8.4.14 · 게임 방법</h2><ol><li>Stage를 고르면 아래에 해당 서식지의 주요 먹이와 예상 손님이 표시됩니다.</li><li>주문이 들어오면 새 손님과 연결된 말풍선에 필요한 꼬치가 표시됩니다.</li><li>선택한 때까치 Chef가 조립대에 직접 등장하며 Idle · 조립 · 굽기 · PERFECT · BURNING 상태가 시각적으로 바뀝니다.</li><li>9종 먹이와 꼬치는 전용 Food Art로 렌더링되며, 주문 카드·조립대·화구가 같은 비주얼 시스템을 공유합니다.</li><li>World 1–10은 서로 다른 색온도·지형 실루엣·환경 오브젝트를 사용하며 플레이 중 배경 블러를 최소화합니다.</li><li>Bird Book과 ShrikeDex에는 수집 진행률, 발견/해금 필터, World 필터, 상세 패널이 제공됩니다.</li><li>모바일에서는 앱 시작·월드 복귀 시 세로모드, Stage 플레이 시작 시 가로모드를 권장하는 전체화면 안내가 표시됩니다.</li><li>0.7.6부터 재료 선택·자동 매칭·화구 READY·PERFECT/OVERCOOKED·손님 퇴장·BURNING에 Animation &amp; Juice 피드백이 추가됩니다.</li><li>모바일 가로모드에서 주문이 5개 이상이면 Compact Order Mode가 자동 적용되어 이름·레시피·타이머가 겹치지 않도록 표시됩니다.</li><li>모바일에서 재료가 4종 이상이면 재료 이미지와 이름이 자동 축소되고, 7종 이상이면 Ultra Dense Food Mode로 5열·내부 스크롤 fallback을 사용해 모든 재료와 조리시간을 보이게 합니다. 화구 불꽃도 작은 화면에 맞게 축소됩니다.</li><li>주문 선택 없이 재료를 같은 순서로 꽂아도 됩니다. 완성 시 가장 오래 기다린 일치 주문에 자동 매칭됩니다.</li><li>원하는 주문을 클릭하면 우선 매칭 대상으로 지정할 수 있습니다. 완성한 꼬치를 빈 화구에 넣고 READY에서 다시 클릭합니다.</li><li>모든 손님의 기본 제한시간은 60초입니다.</li><li>Perfect와 Combo로 Burning을 충전합니다. 게이지가 100%에 도달하면 자동으로 15초간 발동합니다. 버닝 중 다시 충전되면 종료 후 자동 발동합니다.</li><li>새 손님이 처음 방문하면 Bird Book에 등록됩니다.</li><li>World 2의 비는 조리를 늦추고, 바람은 손님 유입을 빠르게 하며, 햇빛은 조리를 가속합니다.</li><li>물때까치는 주문 시간을 제어하고, 긴꼬리때까치는 추가 화구를 운용합니다.</li><li>World 3에서는 낮 → 해질녘 → 밤 전환에 따라 손님 풀이 바뀌고 야간 곤충 주문 가중치가 높아집니다.</li><li>각 World 3 Stage에는 🎯 서브 목표가 있으며 달성 시 추가 XP를 얻습니다.</li><li>PERFECT를 3회 연속 달성할 때마다 추가 점수와 Burning 게이지 보너스를 받습니다.</li><li>World 4에서는 고도 단계에 따라 조리가 느려지고, ❄ 한기 발생 시 조리속도가 추가로 감소합니다.</li><li>회색등때까치는 고도 페널티를 절반으로 줄이며 Burning 동안 고도·한기 페널티를 무효화합니다.</li><li>World 5에서는 🪽 Migration Wave가 여러 차례 발생하며, Wave 중 손님 유입 속도가 크게 증가합니다.</li><li>사막때까치는 Migration Wave 중 점수 +20%, 붉은꼬리때까치는 Rush 중 점수 보너스와 Burning 조리속도 +25%를 얻습니다.</li><li>World 6은 ⭐ Favourite Dish, World 7은 ❄ Fire Warmth, World 8은 🐜 Insect Emergence가 핵심입니다.</li><li>World 9에서는 화구 사용량에 따라 Heat가 오르며, 조리는 빨라지지만 READY 유지시간이 짧아집니다.</li><li>World 10은 Favourite·시간대·날씨·Rush가 결합되는 최종 월드입니다.</li></ol><p class="hint">주문 확률 = 손님 식성 × Stage 먹이 가용성. 기존 0.3.3 localStorage 진행도는 자동으로 이어집니다.</p><button id="closeHelpButton" class="primary-button wide">확인</button></dialog>
 <script src="dist/game.js"></script></body></html>
